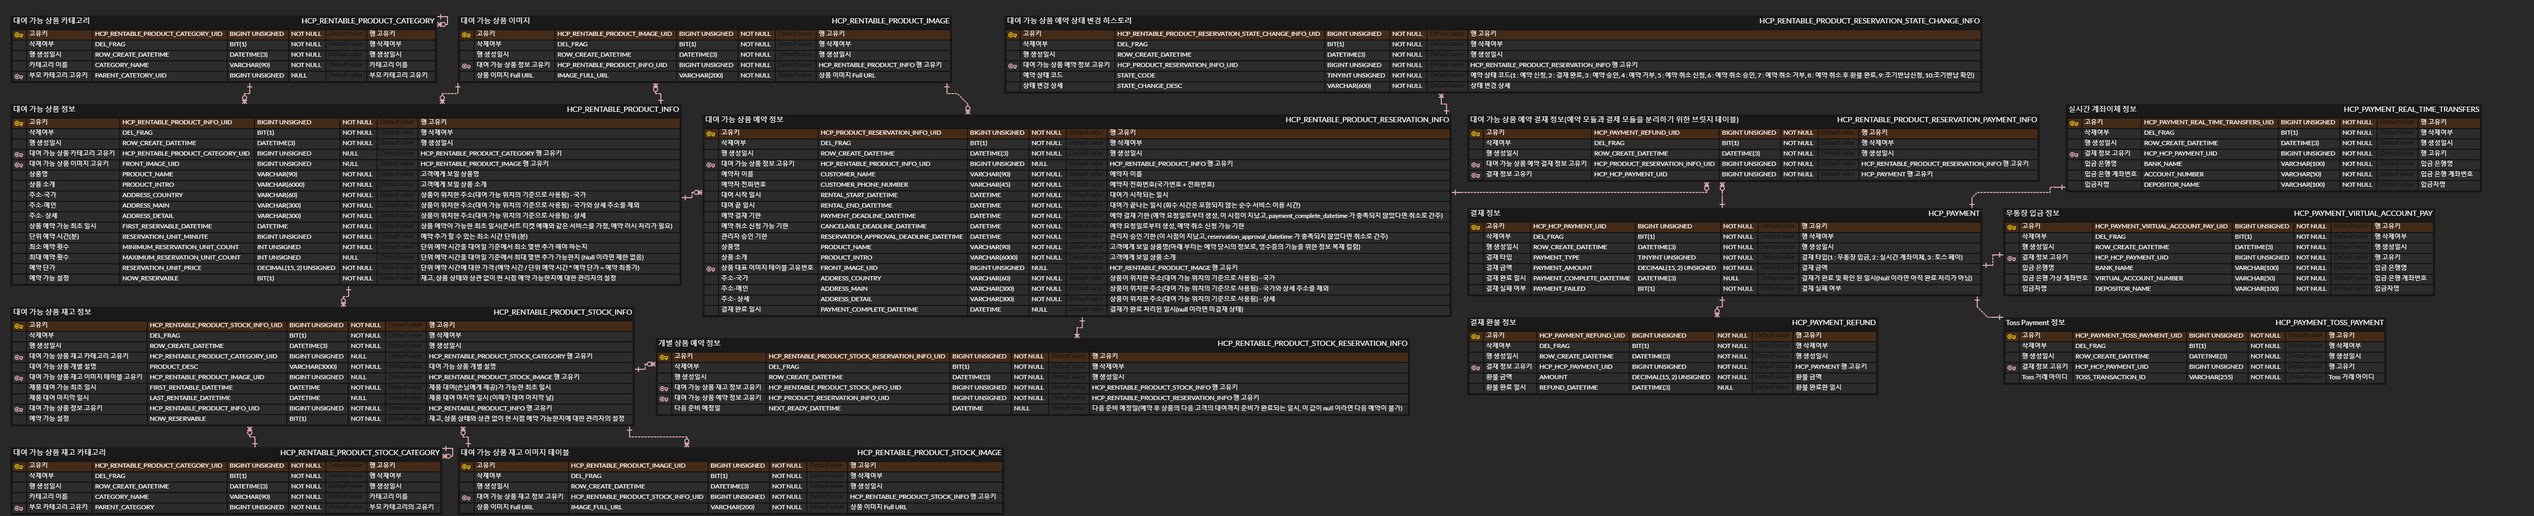
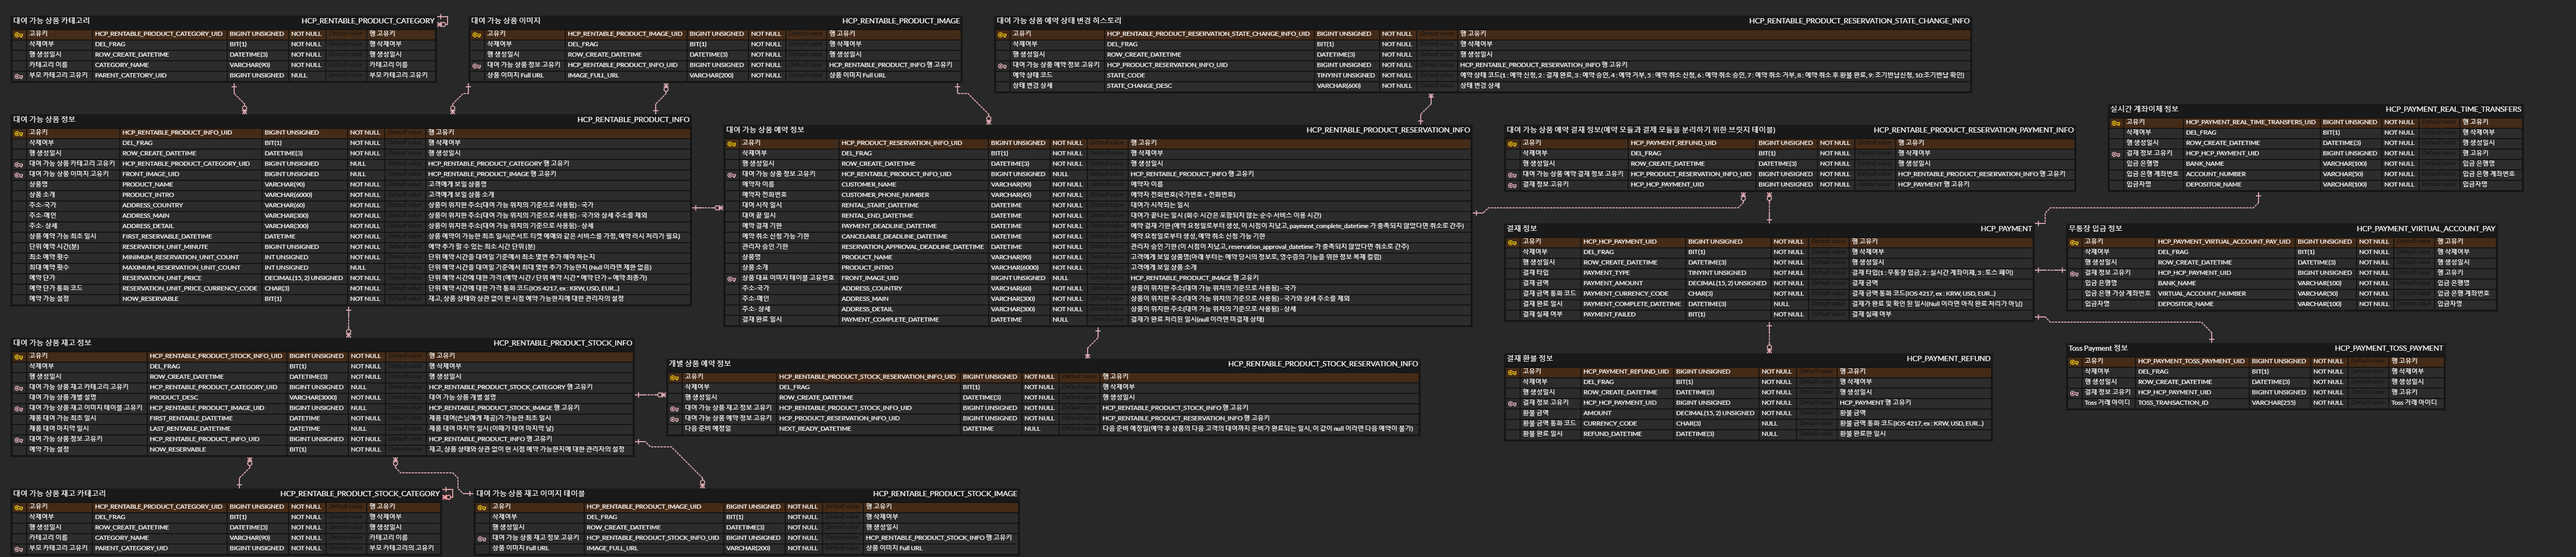
feat : 다양한 통화 처리

diff --git a/module-service-rental-reservation/src/main/kotlin/com/raillylinker/module_service_rental_reservation/jpa_beans/db1_main/entities/Db1_RaillyLinkerCompany_RentableProductInfo.kt b/module-service-rental-reservation/src/main/kotlin/com/raillylinker/module_service_rental_reservation/jpa_beans/db1_main/entities/Db1_RaillyLinkerCompany_RentableProductInfo.kt
@@ -68,6 +68,10 @@ class Db1_RaillyLinkerCompany_RentableProductInfo(
     @Comment("단위 예약 시간에 대한 가격 (예약 시간 / 단위 예약 시간 * 예약 단가 = 예약 최종가)")
     var reservationUnitPrice: BigDecimal,
 
+    @Column(name = "reservation_unit_price_currency_code", nullable = false, columnDefinition = "CHAR(3)")
+    @Comment("단위 예약 시간에 대한 가격 통화 코드(IOS 4217, ex : KRW, USD, EUR...)")
+    var reservationUnitPriceCurrencyCode: String,
+
     @Column(name = "now_reservable", nullable = false, columnDefinition = "BIT(1)")
     @Comment("재고, 상품 상태와 상관 없이 현 시점 예약 가능한지에 대한 관리자의 설정 = 활성/비활성 플래그")
     var nowReservable: Boolean

diff --git a/module-service-rental-reservation/src/main/kotlin/com/raillylinker/module_service_rental_reservation/jpa_beans/db1_main/entities/Db1_RaillyLinkerCompany_Payment.kt b/module-service-rental-reservation/src/main/kotlin/com/raillylinker/module_service_rental_reservation/jpa_beans/db1_main/entities/Db1_RaillyLinkerCompany_Payment.kt
@@ -23,6 +23,10 @@ class Db1_RaillyLinkerCompany_Payment(
     @Comment("결재 금액")
     var paymentAmount: BigDecimal,
 
+    @Column(name = "payment_currency_code", nullable = false, columnDefinition = "CHAR(3)")
+    @Comment("결재 금액 통화 코드(IOS 4217, ex : KRW, USD, EUR...)")
+    var paymentCurrencyCode: String,
+
     @Column(name = "payment_complete_datetime", nullable = true, columnDefinition = "DATETIME(3)")
     @Comment("결재가 완료 및 확인 된 일시(Null 이라면 아직 완료 처리가 아님)")
     var paymentCompleteDatetime: LocalDateTime?,

diff --git a/module-service-rental-reservation/src/main/kotlin/com/raillylinker/module_service_rental_reservation/jpa_beans/db1_main/repositories/Db1_RaillyLinkerCompany_RentableProductReservationPayment_Repository.kt b/module-service-rental-reservation/src/main/kotlin/com/raillylinker/module_service_rental_reservation/jpa_beans/db1_main/repositories/Db1_RaillyLinkerCompany_RentableProductReservationPayment_Repository.kt
@@ -1,0 +1,10 @@
+package com.raillylinker.module_service_rental_reservation.jpa_beans.db1_main.repositories
+
+import com.raillylinker.module_service_rental_reservation.jpa_beans.db1_main.entities.Db1_RaillyLinkerCompany_RentableProductReservationPayment
+import org.springframework.data.jpa.repository.JpaRepository
+import org.springframework.stereotype.Repository
+
+@Repository
+interface Db1_RaillyLinkerCompany_RentableProductReservationPayment_Repository :
+    JpaRepository<Db1_RaillyLinkerCompany_RentableProductReservationPayment, Long> {
+}

diff --git a/module-service-rental-reservation/src/main/kotlin/com/raillylinker/module_service_rental_reservation/jpa_beans/db1_main/entities/Db1_RaillyLinkerCompany_PaymentRefund.kt b/module-service-rental-reservation/src/main/kotlin/com/raillylinker/module_service_rental_reservation/jpa_beans/db1_main/entities/Db1_RaillyLinkerCompany_PaymentRefund.kt
@@ -24,6 +24,10 @@ class Db1_RaillyLinkerCompany_PaymentRefund(
     @Comment("환불 금액")
     var amount: BigDecimal,
 
+    @Column(name = "currency_code", nullable = false, columnDefinition = "CHAR(3)")
+    @Comment("환불 금액 통화 코드(IOS 4217, ex : KRW, USD, EUR...)")
+    var currencyCode: String,
+
     @Column(name = "refund_datetime", nullable = true, columnDefinition = "DATETIME(3)")
     @Comment("환불 완료 일시")
     var paymentCompleteDatetime: LocalDateTime?

diff --git a/module-service-rental-reservation/src/main/kotlin/com/raillylinker/module_service_rental_reservation/jpa_beans/db1_main/repositories/Db1_RaillyLinkerCompany_RentableProductReservationStateChangeHistory_Repository.kt b/module-service-rental-reservation/src/main/kotlin/com/raillylinker/module_service_rental_reservation/jpa_beans/db1_main/repositories/Db1_RaillyLinkerCompany_RentableProductReservationStateChangeHistory_Repository.kt
@@ -5,6 +5,6 @@ import org.springframework.data.jpa.repository.JpaRepository
 import org.springframework.stereotype.Repository
 
 @Repository
-interface Db1_RaillyLinkerCompany_RentableProductReservationHistory_Repository :
+interface Db1_RaillyLinkerCompany_RentableProductReservationStateChangeHistory_Repository :
     JpaRepository<Db1_RaillyLinkerCompany_RentableProductReservationStateChangeHistory, Long> {
 }
